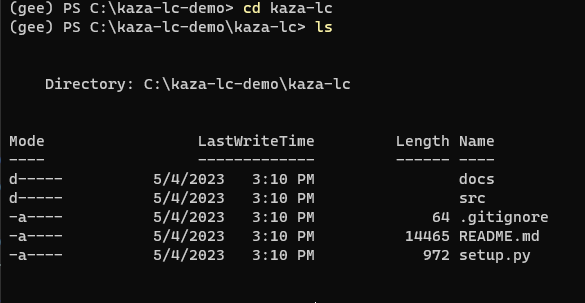
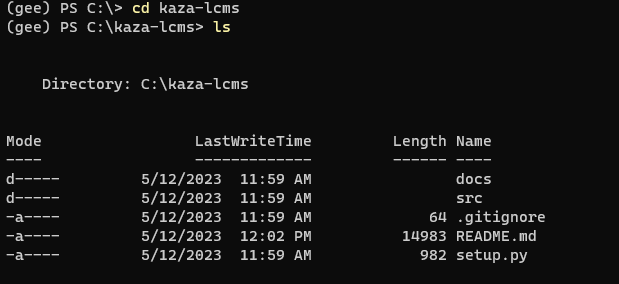
revised README, started ProjectWorkflow.md

diff --git a/src/03RFprimitives.py b/src/03RFprimitives.py
@@ -9,8 +9,8 @@ def main():
     ee.Initialize(project='wwf-sig')
 
     parser = argparse.ArgumentParser(
-    description="Create land cover primitives for all classes in provided training data",
-    usage = "python 03RFprimitives.py -i path/to/input_stack -t path/to/training_data -o path/to/output"
+    description="Create Land Cover Primitives For All Classes in Provided Training Data",
+    usage = "03RFprimitives -i path/to/input_stack -t path/to/training_data -o path/to/output"
     )
     
     parser.add_argument(
@@ -29,14 +29,6 @@ def main():
     required=True,
     help="full asset path(s) to training point dataset(s)"
     )
-    
-    # parser.add_argument(
-    #     "-t",
-    #     "--training_data",
-    #     type=str,
-    #     required=True,
-    #     help = "full asset path to training data"
-    # )
     
     parser.add_argument(
         "-o",

diff --git a/src/04generate_LC.py b/src/04generate_LC.py
@@ -9,8 +9,8 @@ def main():
     ee.Initialize(project='wwf-sig')
     
     parser = argparse.ArgumentParser(
-    description="Generate single land cover image from land cover primitives image collection",
-    usage = "python 04generate_LC.py -i input_primitive_collection -o output_landcover_image"
+    description="Generate Single Land Cover Image From Land Cover Primitives Image Collection",
+    usage = "04generate_LC -i path/to/input_primitive_collection -o output/path/to/landcover_image"
     )
     
     parser.add_argument(

diff --git a/src/02train_test.py b/src/02train_test.py
@@ -10,7 +10,7 @@ ee.Initialize(project='wwf-sig')
 def main():
     parser = argparse.ArgumentParser(
     description="Extract Train and Test Point Data from an Input Image within Reference Polygon Areas",
-    usage = """01train_test -rp path/to/reference_polygon_fc -im path/to/input/stack 
+    usage = """02train_test -rp path/to/reference_polygon_fc -im path/to/input/stack 
                 -o unique/output/path --class_values 1 2 3 4 5 6 7 8 --class_points 10 10 10 10 10 10 10"""
     )
     

diff --git a/src/01composite_s2.py b/src/01composite_s2.py
@@ -9,7 +9,7 @@ def main():
     ee.Initialize(project='wwf-sig')
     parser = argparse.ArgumentParser(
     description="Create Sentinel-2 Composite for an AOI or reference polygons",
-    usage = "python 02composite_s2.py -a Zambezi -y 2021 -o projects/wwf-sig/assets/kaza-lc-test/input_stacks"
+    usage = "01composite_s2 -a Zambezi -y 2021 -o projects/wwf-sig/assets/kaza-lc-test/input_stacks"
     )
     
     parser.add_argument(

diff --git a/README.md b/README.md
@@ -32,20 +32,20 @@ git --version
 
 ![kaza_readme_git_version](docs/imgs/git_version.PNG)
 
-3. Clone the kaza repository to a local folder 
+3. Clone the repository to a local folder 
 
 ```
-git clone https://github.com/kyle-woodward/kaza-lc.git
+git clone https://github.com/kyle-woodward/kaza-lcms.git
 ```
 
 ![kaza_readme_git_clone](docs/imgs/git_clone.PNG)
 
-4. `cd` into your new kaza-lc folder and `ls`(linux/MacOS) or `dir`(Windows) to see its contents
+4. `cd` into your new kaza-lcms folder and `ls`(linux/MacOS) or `dir`(Windows) to see its contents
 
 ![kaza_readme_cdToKazalc](docs/imgs/cd_to_kazalc.PNG)
 
 ## Install Source Code and Dependencies
-1. While still in your terminal, and in the `kaza-lc` parent directory, install the `kaza-lc` package from the source code with pip:
+1. While still in your terminal, and in the `kaza-lcms` parent directory, install the `kaza-lcms` package from the source code with pip:
 
 ```
 pip install -e .
@@ -53,7 +53,7 @@ pip install -e .
 
 ![kaza_readme_pip_install](docs/imgs/pip_install.PNG)
 
-pip will begin to install the `kaza-lc` source code and its required dependencies. We install the package in developer mode (`-e` flag) so that changes made to files will be reflected in the code compiled at run-time. If the python package dependencies are already installed in your conda `gee` virtual environment, your output will show 'requirement already satisfied' next to each package already installed. 
+pip will begin to install the `kaza-lcms` source code and its required dependencies. We install the package in developer mode (`-e` flag) so that changes made to files will be reflected in the code compiled at run-time. If the python package dependencies are already installed in your conda `gee` virtual environment, your output will show 'requirement already satisfied' next to each package already installed. 
 
 ## Earth Engine Setup
 Earth Engine requires you to authenticate your account credentials to access the Earth Engine API and your chosen Cloud Project. We do this with the `gcloud` python utility
@@ -87,144 +87,71 @@ earthengine authenticate
 Test that earthengine is setup and authenticated by checking the folder contents within the `wwf-sig` cloud project. 
 * In your shell, run:
 ```
+earthengine set project wwf-sig
 earthengine ls projects/wwf-sig/assets/kaza-lc
 ```
 
-![kaza_earthenginels](https://user-images.githubusercontent.com/51868526/184402268-5876a8eb-7e1d-4d1f-aef6-658c6e20fe8c.JPG)
+![kaza_earthenginels](docs/imgs/earthengine_ls.PNG)
 
 If you do not get an error and it returns a list of folders and assets similar to this then you are good to go! :tada:
 
-# Project Workflow
-Execute these steps in order create a yearly land cover product for a given year and region in KAZA 
-*(tool in parentheses)*
+## Tool Documentation
 
-1. Generate stratified random reference samples for interpretation in Collect Earth Online (00sample_pts)
-2. Extract train and test data points from annual Sentinel-2 SR composites (01train_test)
-3. Generate input data stack from chosen sensor used by the model (02composite_s2)
-4. Create land cover primitives from Random Forest models (03RFprimitives)
-5. Construct categorical land cover map from the land cover primitives (04generate_LC)
-6. Conduct accuracy assessment and estimate area (AREA2: Stratified Estimator tool)
-
-**click this link to accept the kazaLC Javascript repo: https://code.earthengine.google.com/?accept_repo=users/kwoodward/kazaLC**
-
-**click this link to gain access to the WWF_KAZA Google Drive folder: https://drive.google.com/drive/folders/1Qd3Xo9ISQjQV15xxwqfgE-Dr1JFJ49M4?usp=sharing**
-
-## About the python scripts
-Each Command Line Interface (CLI) script will be run on the command-line. The user must provide values for each required command-line argument to control the analysis.
-You can first run any script, only declaring the `-h` flag. This will bring up the help dialog with a usage example and a description of required command-line arguments. 
-Before you run any scripts, ensure you've activated your anaconda environment with your required dependencies and have changed into the `kaza-lc` directory that contains the scripts.
+Before you run any scripts, ensure you've activated your anaconda environment with your required dependencies and have changed into the `kaza-lcms` directory that contains the scripts.
 example:
 ```
 conda activate gee
-cd C:\kaza-lc
+cd C:\kaza-lcms
 ```
-# Generate Reference Samples
-**Python Script: 01sample_pts.py**
 
-This script generates sample points to be used as training and testing for your given AOI. Currently you provide the year for which the points are to be used and it exports points for all AOIs as Earth Engine Feature Collection and as a CSV file to a Google Drive folder. 
-Run the script with python, choosing values for its required arguments
+Each Command Line Interface (CLI) script tool can be run in your command-line terminal of choice. The user must provide values for each required command-line argument to control the analysis.
+You can first run any script, only declaring the `-h` flag. This will bring up the help dialog with a usage example and a description of required command-line arguments. 
+
+### **00sample_pts**
+
+Generate Random Sample Points From an ee.Image, Formatted for Collect Earth Online
+
+The points are pre-formatted for use in Collect Earth Online to generate photo-interpreted reference data. You can choose to export the points to Google Drive, to GEE Asset or both. 
+
 example:
 ```
-python 01sample_pts.py -y 2022
+00sample_pts -im input/path/to/image -band LANDCOVER -o output/path --n_points 100 --to_drive
 ```
 
-![01sample_pts_output](docs/imgs/01sample_pts_CLI.PNG)
+### **01sentinel2_sr**
 
-# Generate Input Stack
-**Python Script: 02sentinel2_sr.py**
+Creates a Sentinel-2 Composite for an AOI or reference polygons. 
 
-This script creates a data stack of input covariates to feed into the land cover models. It executes this process for one AOI and year that the user specifies.
-Note: `-o/--output` argument is optional. You can provide your own asset path, otherwise the script will create a default standardized file path. 
-Note: specifying the `--dry_run` argument allows you to run checks wihout actually executing the workflow.
-Run the script with python, choosing values for its required arguments
+The resulting band stack is needed for both extracting training data information and as input to a trained model's inference. Set the `-p` flag if your AOI is a set of reference polygons and not one contiguous AOI polygon. 
+
 example:
 ```
-python 02sentinel2_sr.py -a Zambezi -y 2022
+01composite_s2 -a Zambezi -y 2021 -o projects/wwf-sig/assets/kaza-lc-test/input_stacks
 ```
 
-![02sentinel_outputs](docs/imgs/02sentinel2_sr_CLI.PNG)
+**NOTE: The user can control which spectral indices and time series features to generate in this tool by modifying this file in the repository : [`~/src/utils/model_inputs.py`](/src/utils/model_inputs.py). See [ProjectWorkflow.md](/ProjectWorkflow.md) for details.**
 
-The script reports that it is exporting a new dataset to the Earth Engine project. You can monitor submitted Earth Engine tasks in the [code editor](https://code.earthengine.google.com/) and clicking on Tasks tab in top-right
+### **03RFprimitives**
 
-![script2_EEtaskRunning](docs/imgs/script2_export_task.PNG)
+Create Land Cover Primitives For All Classes in Provided Training Data. 
 
-Once the export task has completed, confirm that the new dataset exists. In the [code editor](https://code.earthengine.google.com/), go to Assets tab on top-left and navigate to the `wwf-sig` cloud project folder. Find the dataset at the path that was reported in the previous script.
+This script trains probability Random Forest models for each land cover class in your typology as provided by the numeric 'LANDCOVER' property in the provided reference data. It then exports these binary probability images one land cover at a time into a land cover 'Primitives' image collection. While doing so, it also reports out some model performance metrics saved to a new folder created in your *local* `kaza-lcms/metrics` folder on your computer.
 
-![input_stack_exists_in_folder](https://user-images.githubusercontent.com/51868526/185693779-cf06d1d2-2a72-41d6-a8c8-1f8847118363.PNG)
-
-# Train and Apply Random Forest Primitive Models
-**Python Script: 03RFprimitives.py**
-
-This script trains probability Random Forest models for each land cover class in your typology as provided by the numeric 'LANDCOVER' property in the provided reference data. It then exports these binary probability images one land cover at a time into a land cover 'Primitives' image collection. While doing so, it also reports out some model performance metrics saved to a new folder created in your *local* `kaza-lc` folder on your computer.
-Note: `-o/--output` argument is again optional. If it is not provided, a default output path will be chosen.
-Note: specifying the `--dry_run` argument allows you to run checks wihout actually executing the workflow.
-Run the script with python, choosing values for its required arguments
 example:
 ```
 python 03RFprimitives.py -i projects/wwf-sig/assets/kaza-lc/input_stacks/BingaTestPoly_stack_2020 -r projects/wwf-sig/assets/kaza-lc/sample_pts/BingaDummyReferenceData  -o projects/wwf-sig/assets/kaza-lc/output_landcover/Primitives_BingaTestPoly_2020
 ```
 
-![Rfprims_CLIoutput](docs/imgs/03RFprimitives_CLI.PNG)
+**04generate_LC**
 
-Once the script completes, check several things:
-1. Check that the exports have been submitted by looking at the Tasks tab in the [code editor](https://code.earthengine.google.com/)
-![RFprims_tasklist](https://user-images.githubusercontent.com/51868526/185696700-f3ce7aed-45b8-4fc5-bb84-0141846d0f21.PNG)
-2. Go into your local `kaza-lc` folder on your computer, check that a new folder named at the reported location has been created. In the example above the folder was named `C:\kaza-lc\metrics\Primitives_BingaTestPoly_2020`.
-3. Investigate the metric files located within. 
+Generate Single Land Cover Image From Land Cover Primitives Image Collection
 
-![metricsFolder_inside](docs/imgs/metrics_folder.PNG)
+This script takes the RF primitives collection generated from the previous script and creates a single-band land cover image from them, taking the highest-probability Primitive at each pixel to assign the Land Cover class.
 
-There should be one oobError .txt file and one varImportance .csv file per land cover. The oobError .txt files contain the Out-of-Bag Error estimate for that land cover's Random Forest model. The varImportance .csv files report out the relative importance of each input feature (covariate) in the input data stack.
-
-# Generate Final Land Cover Image
-**Python Script: 04generate_LC.py**
-
-This script takes the RF primitives collection generated from the previous script and creates a single-band land cover image from them.
-Note: `-o/--output` argument is optional.
-Run the script with python, choosing values for its required arguments
 example:
 ```
-python 04generate_LC.py -i projects/wwf-sig/assets/kaza-lc/output_landcover/Primitives_BingaTestPoly_stack_2020 -o 
+04generate_LC -i projects/wwf-sig/assets/kaza-lc/output_landcover/Primitives_BingaTestPoly_stack_2020 -o 
 projects/wwf-sig/assets/kaza-lc/output_landcover/LandCover_BingaTestPoly_2020
 ```
-![04generate_LC_CLIoutputs](docs/imgs/04_generateLC_CLI.PNG)
-
-Like you've done previously, check that the export task has been submitted in the [code editor](https://code.earthengine.google.com/), and when the task completes, check that the new output file exists in the Assets tab. 
-
-# Inspecting Outputs
-In addition to digging into the files in your metrics folders, you should also look at the output land cover image to gain insight into how the land cover models are performing
-In the [code editor](https://code.earthengine.google.com/), in the Scripts tab top-left, find the code repository named 'users/kwoodward/inspectingLCOutputs' and open it. Edit it as necessary to display the land cover products you would like to look at and click Run.
-![inspectingLCOutputs](https://user-images.githubusercontent.com/51868526/185697784-415a4367-f52b-48d1-8647-cf6fad81644f.PNG)
-![insepctingLCoutputs](https://user-images.githubusercontent.com/51868526/185688973-483f3d81-df16-4613-93bf-7a89fe839b42.PNG)
-
-You can zoom in, and change the transparency of layers in the Layers widget in the top-right of the Map window.
-
-# Accuracy Assessment and Area Estimation using [AREA2](https://area2.readthedocs.io/en/latest/overview.html)
-Once you have a final Land Cover ee.Image in your Earth Engine folder, you are ready to assess its accuracy and estimate area per class from that image.
-__click this link to add the AREA2 GEE script repository to your Reader repos: [https://code.earthengine.google.com/?accept_repo=projects/AREA2/public](https://code.earthengine.google.com/?accept_repo=projects/AREA2/public)__
-We will be using the `Stratified Estimation` script tool. 
-
-![StratifiedEstimation](docs/imgs/AREA2_stratifiedEstimation.PNG)
-
-* Open the script and click `Run`. A User Interface will be generated.
-
-![RunStratifiedEstimation](docs/imgs/stratifiedEstimationUIOpen.PNG)
-
-* In the first dialog box, we will provide the full GEE asset path to our Land Cover `ee.Image`.
-* We leave the second dialog box, 'Specify Band' as default 1
-* In the third dialog box, we must specify the no data value. It must be a number that is not being used in the 'LANDCOVER' typology. For example, if your LANDCOVER values are 1-8, a no data value 0 is appropriate.
-* In the fourth dialog box, we provide the full GEE asset path to our testing samples `ee.FeatureCollection`. In our workflow, this is generated in the 03RFprimitives.py by separating the input reference data into '_trainingPts' and '_testingPts'. You want to select the '_testingPts' `ee.FeatureCollection`
-* Click 'Load data', then another button 'Apply stratified estimator' will appear. Click that as well. 
-* Testing points that were misclassified in our land cover image are added to the map, and Accuracy and Area metrics are printed to the Console. 
-
-![mapview](docs/imgs/stratifiedEstimationFillOutDialog.PNG)
-
-![consoleview](docs/imgs/stratifiedEstimationConsole.PNG)
-
-* You can save or take a screenshot of the printed Accuracy and Area metrics. You can also retrieve the confusion/error matrices themselves as total counts or proportions by clicking the 'show error matrices' button in the UI. 
-
-*A good place to save these metrics is in the metrics subfolder generated during the RF Primitives analysis.*
-
-![showmatrices](docs/imgs/stratifiedEstimationErrorMatrices.PNG)
 
 

diff --git a/ProjectWorkflow.md b/ProjectWorkflow.md
@@ -1,0 +1,111 @@
+# Project Workflow
+
+Probably will remove these links and visualizing LC outputs will paste a JS code block of a Code Link in this documentation.
+
+**click this link to accept the kazaLC Javascript repo: https://code.earthengine.google.com/?accept_repo=users/kwoodward/kazaLC**
+
+**click this link to gain access to the WWF_KAZA Google Drive folder: https://drive.google.com/drive/folders/1Qd3Xo9ISQjQV15xxwqfgE-Dr1JFJ49M4?usp=sharing**
+
+Execute these steps in order create a yearly land cover product for a given year and region in KAZA 
+*(tool in parentheses)*
+
+1. Generate Random Land Cover Samples
+2. Collect Reference Polygons in CEO
+3. Create Sentinel-2 Input Stack
+4. Generate Train and Test Data
+5. Create Land Cover Primitives
+6. Assemble Land Cover Map
+7. Area Estimation and Accuracy 
+
+## Detailed Example
+
+Here is a full run-through of the process, with CLI usage examples, screenshots, and guidance.
+
+### Generate Random Land Cover Samples
+
+### Collect Reference Polygons in CEO
+
+Refer to the WWF CEO Data Collection document for instructions
+
+### Create Sentinel-2 Input Stack
+
+To continue the Research & Development process, all spectral bands and time series features are controlled by the user in the `src/utils/model_inputs.py` file in this repository. 
+
+![model_inputs](docs/imgs/model_inputs.PNG)
+
+The settings in this file currently reflect those model covariates detailed in the methodology report, but we fully expect for WWF to begin experimenting with feature engineering for model performance improvements. Computing harmonic trend coefficients on user-controlled spectral bands and indices is also now supported. Set `addHarmonics` to True to use them. In `harmonicsOptions`, the user specifies which band/spectral index and Day of Year range to compute the harmonic trend coefficients from.
+
+Currently `addJRCWater` and `addTasselCap` are set to `False`. These covariates were previously not coded into the toolset. It is highly likely that they will be informative model covariates for a variety of land cover classes. For more information on the science behind these covariates, see these papers:
+
+[JRC paper]()
+
+[TasselCap paper]()
+
+The script reports that it is exporting a new dataset to the Earth Engine project. You can monitor submitted Earth Engine tasks in the [code editor](https://code.earthengine.google.com/) and clicking on Tasks tab in top-right
+
+Once the export task has completed, confirm that the new dataset exists. In the [code editor](https://code.earthengine.google.com/), go to Assets tab on top-left and navigate to the `wwf-sig` cloud project folder. Find the dataset at the path that was reported in the previous script.
+
+![input_stack_exists_in_folder](https://user-images.githubusercontent.com/51868526/185693779-cf06d1d2-2a72-41d6-a8c8-1f8847118363.PNG)
+
+### Generate Train and Test Data
+
+### Create Land Cover Primitives
+
+![Rfprims_CLIoutput](docs/imgs/03RFprimitives_CLI.PNG)
+
+Once the script completes, check several things:
+1. Check that the exports have been submitted by looking at the Tasks tab in the [code editor](https://code.earthengine.google.com/)
+![RFprims_tasklist](https://user-images.githubusercontent.com/51868526/185696700-f3ce7aed-45b8-4fc5-bb84-0141846d0f21.PNG)
+2. Go into your local `kaza-lc` folder on your computer, check that a new folder named at the reported location has been created. In the example above the folder was named `C:\kaza-lc\metrics\Primitives_BingaTestPoly_2020`.
+3. Investigate the metric files located within. 
+
+![metricsFolder_inside](docs/imgs/metrics_folder.PNG)
+
+There should be one oobError .txt file and one varImportance .csv file per land cover. The oobError .txt files contain the Out-of-Bag Error estimate for that land cover's Random Forest model. The varImportance .csv files report out the relative importance of each input feature (covariate) in the input data stack.
+
+
+### Assemble Land Cover Map
+
+![04generate_LC_CLIoutputs](docs/imgs/04_generateLC_CLI.PNG)
+
+Like you've done previously, check that the export task has been submitted in the [code editor](https://code.earthengine.google.com/), and when the task completes, check that the new output file exists in the Assets tab. 
+
+# Inspecting Outputs
+In addition to digging into the files in your metrics folders, you should also look at the output land cover image to gain insight into how the land cover models are performing
+In the [code editor](https://code.earthengine.google.com/), in the Scripts tab top-left, find the code repository named 'users/kwoodward/inspectingLCOutputs' and open it. Edit it as necessary to display the land cover products you would like to look at and click Run.
+![inspectingLCOutputs](https://user-images.githubusercontent.com/51868526/185697784-415a4367-f52b-48d1-8647-cf6fad81644f.PNG)
+![insepctingLCoutputs](https://user-images.githubusercontent.com/51868526/185688973-483f3d81-df16-4613-93bf-7a89fe839b42.PNG)
+
+You can zoom in, and change the transparency of layers in the Layers widget in the top-right of the Map window.
+
+### Area Estimation and Accuracy 
+
+**Accuracy Assessment and Area Estimation using [AREA2](https://area2.readthedocs.io/en/latest/overview.html)**
+
+Once you have a final Land Cover ee.Image in your Earth Engine folder, you are ready to assess its accuracy and estimate area per class from that image.
+__click this link to add the AREA2 GEE script repository to your Reader repos: [https://code.earthengine.google.com/?accept_repo=projects/AREA2/public](https://code.earthengine.google.com/?accept_repo=projects/AREA2/public)__
+We will be using the `Stratified Estimation` script tool. 
+
+![StratifiedEstimation](docs/imgs/AREA2_stratifiedEstimation.PNG)
+
+* Open the script and click `Run`. A User Interface will be generated.
+
+![RunStratifiedEstimation](docs/imgs/stratifiedEstimationUIOpen.PNG)
+
+* In the first dialog box, we will provide the full GEE asset path to our Land Cover `ee.Image`.
+* We leave the second dialog box, 'Specify Band' as default 1
+* In the third dialog box, we must specify the no data value. It must be a number that is not being used in the 'LANDCOVER' typology. For example, if your LANDCOVER values are 1-8, a no data value 0 is appropriate.
+* In the fourth dialog box, we provide the full GEE asset path to our testing samples `ee.FeatureCollection`. In our workflow, this is generated in the 03RFprimitives.py by separating the input reference data into '_trainingPts' and '_testingPts'. You want to select the '_testingPts' `ee.FeatureCollection`
+* Click 'Load data', then another button 'Apply stratified estimator' will appear. Click that as well. 
+* Testing points that were misclassified in our land cover image are added to the map, and Accuracy and Area metrics are printed to the Console. 
+
+![mapview](docs/imgs/stratifiedEstimationFillOutDialog.PNG)
+
+![consoleview](docs/imgs/stratifiedEstimationConsole.PNG)
+
+* You can save or take a screenshot of the printed Accuracy and Area metrics. You can also retrieve the confusion/error matrices themselves as total counts or proportions by clicking the 'show error matrices' button in the UI. 
+
+*A good place to save these metrics is in the metrics subfolder generated during the RF Primitives analysis.*
+
+![showmatrices](docs/imgs/stratifiedEstimationErrorMatrices.PNG)
+
